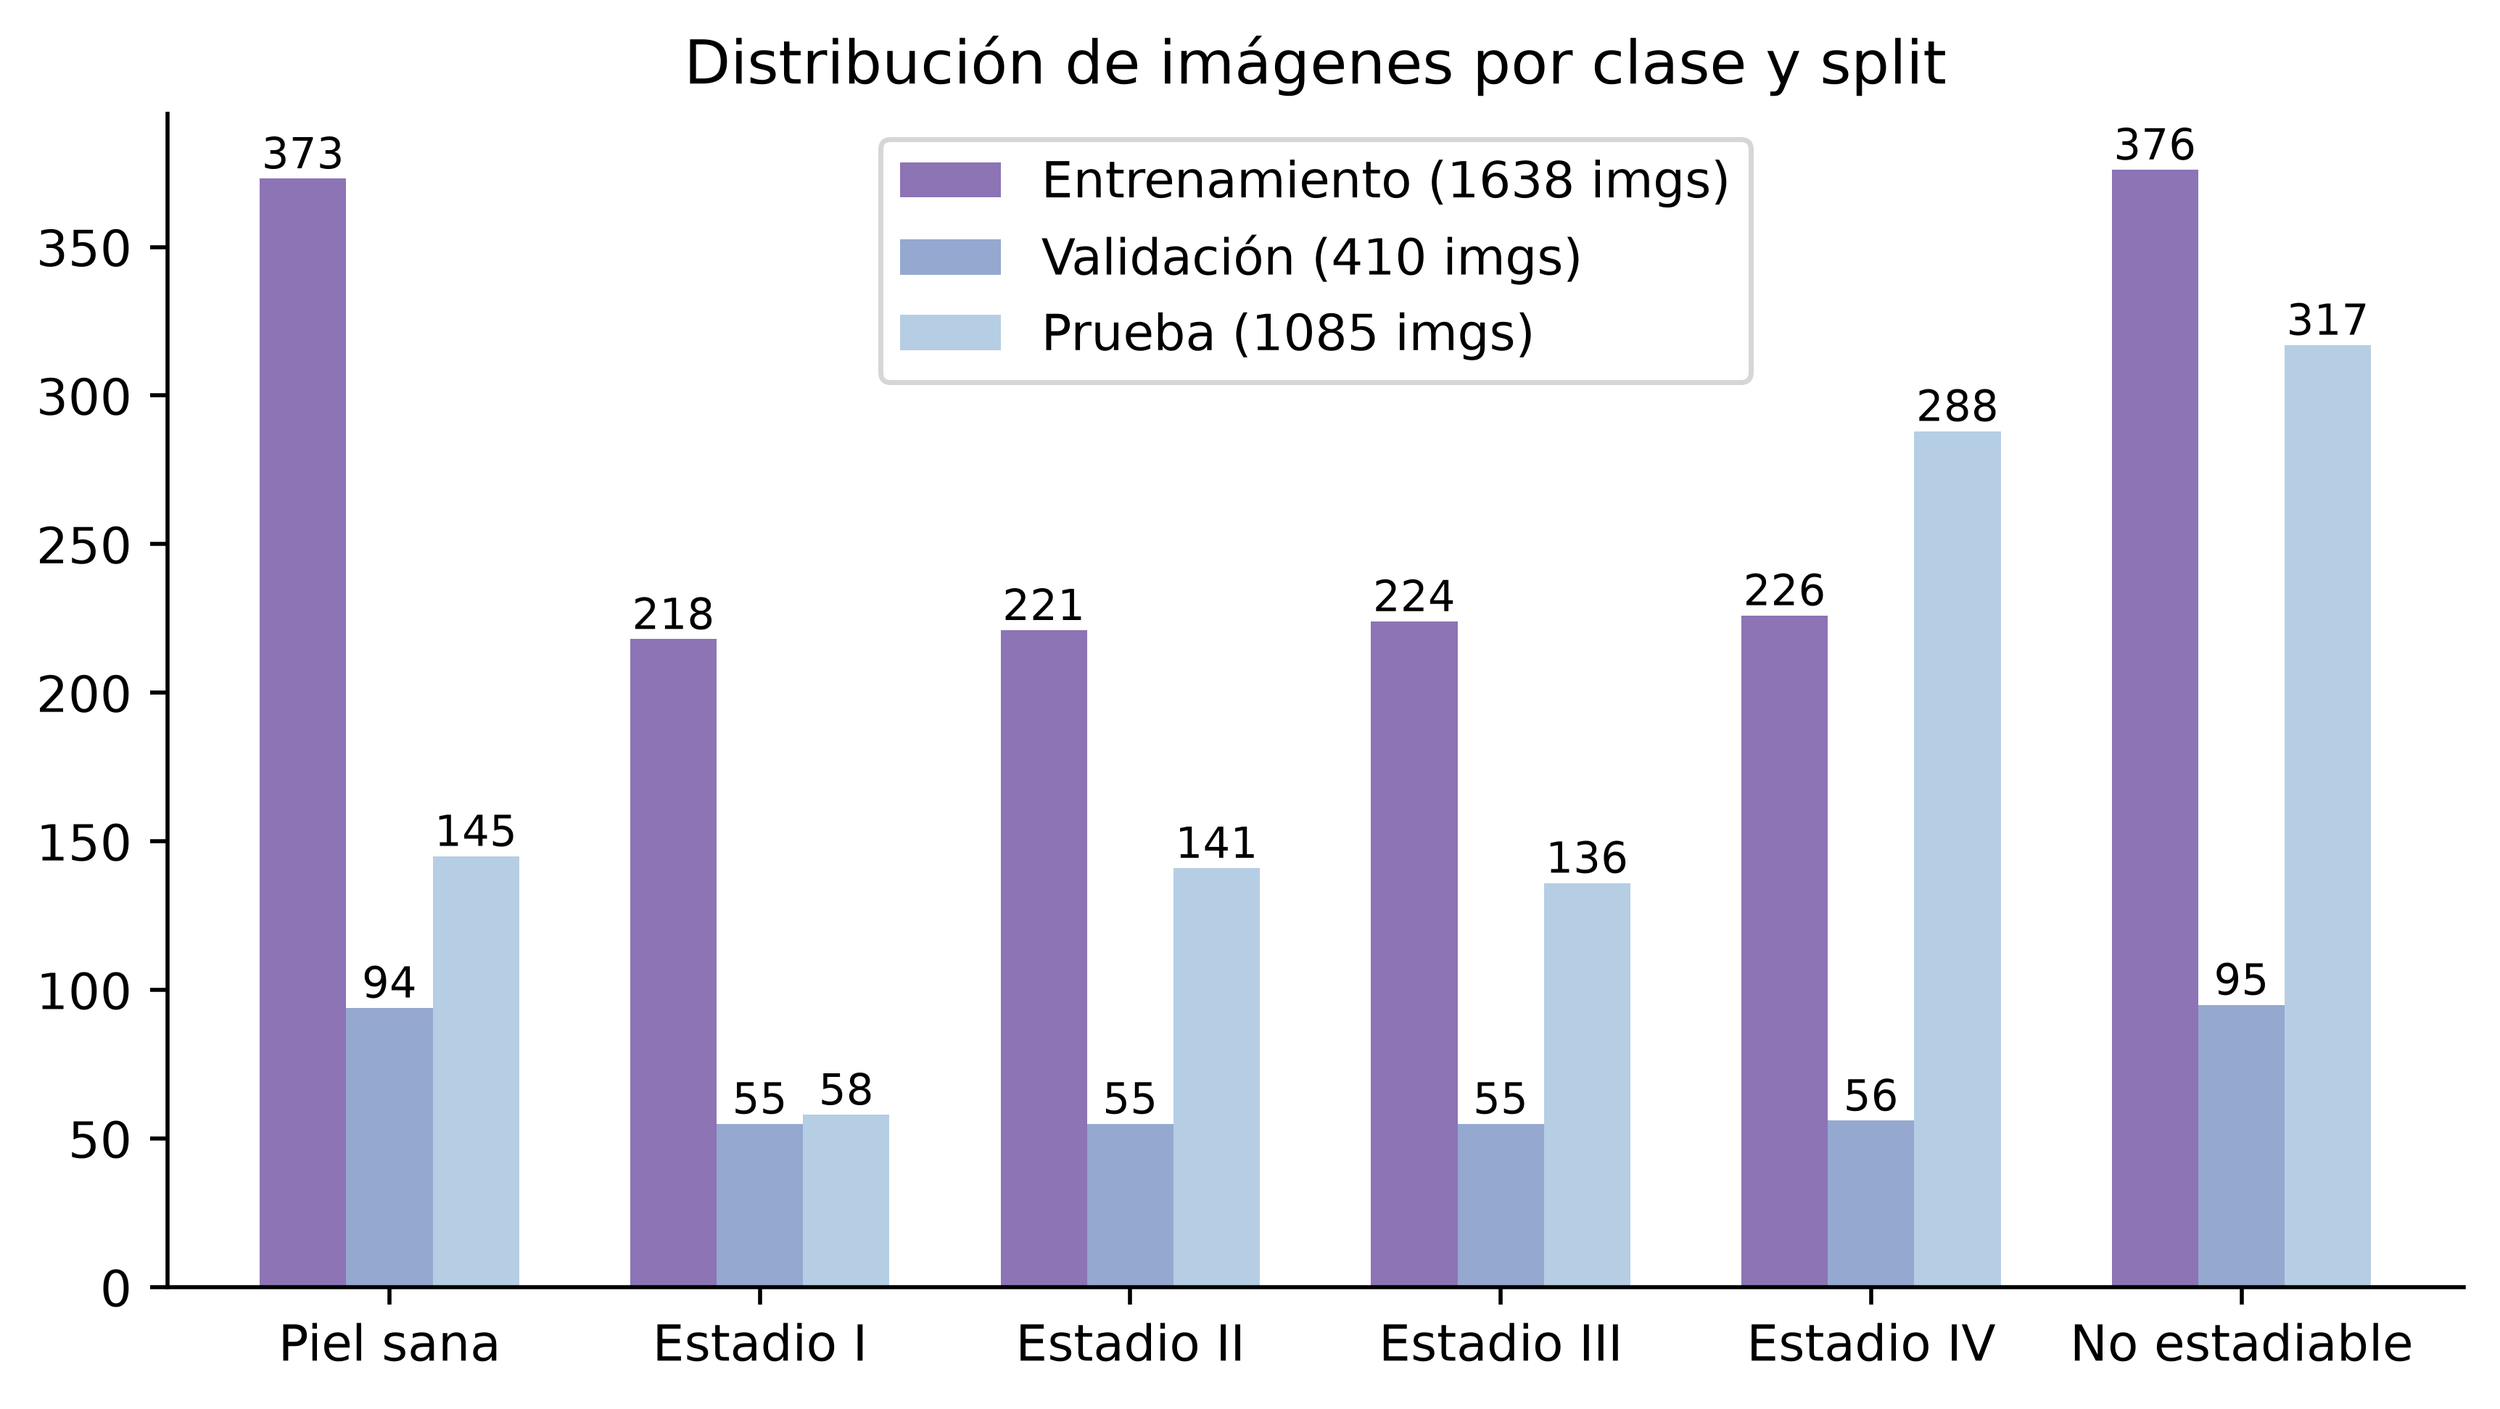
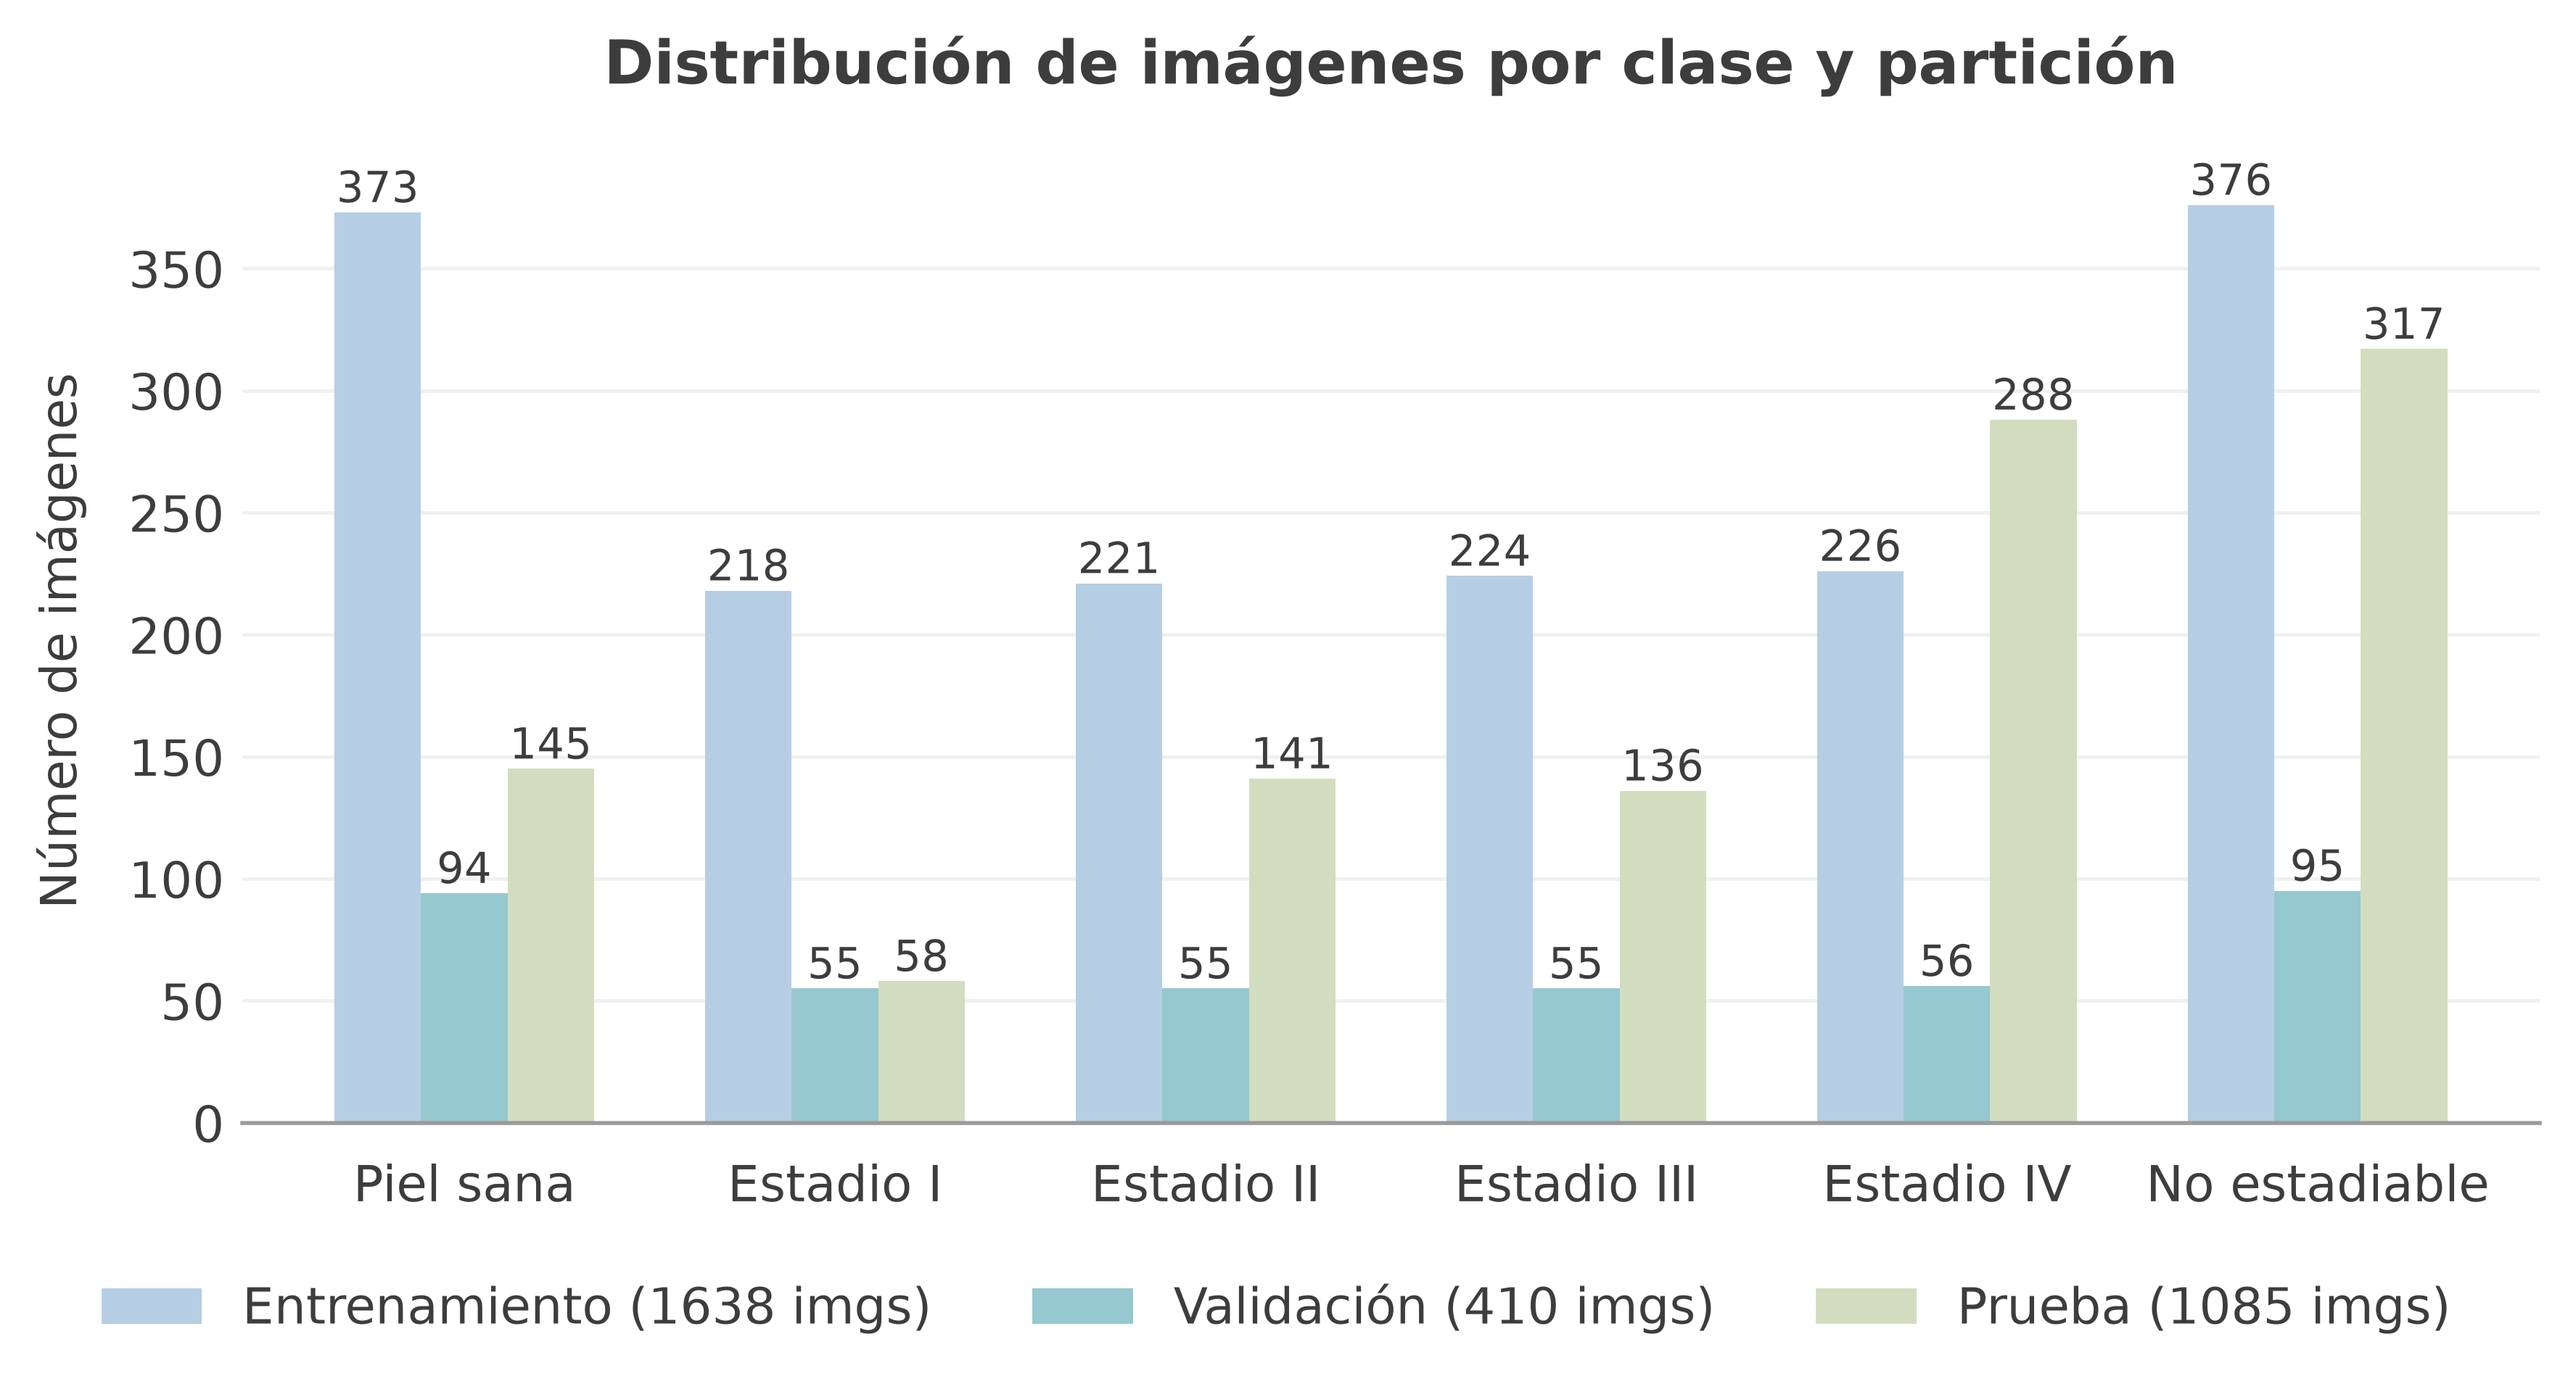
Se modificó el estilo de la gráfica de la distribución de imágenes por clase y split

diff --git a/src/upp_classification/visualization.py b/src/upp_classification/visualization.py
@@ -183,7 +183,7 @@ def plot_dataset_distribution(upp_csv_file=UPP_CSV_FILE, piid_csv_file=PIID_CSV_
     df_upp = pd.read_csv(upp_csv_file)
     df_piid = pd.read_csv(piid_csv_file)
 
-    # Alinear columnas faltantes en PIID para poder concatenar ambos datasets
+    # Agregar columnas faltantes en PIID para poder concatenar ambos datasets
     df_piid["patient_id"] = None
     df_piid["lesion_id"] = None
     df_all = pd.concat([df_upp, df_piid], ignore_index=True)
@@ -213,20 +213,39 @@ def plot_dataset_distribution(upp_csv_file=UPP_CSV_FILE, piid_csv_file=PIID_CSV_
     counts.columns = [f"{col} ({split_totals[col]} imgs)" for col in counts.columns]
 
     # Graficar
-    ax = counts.plot(kind="bar", figsize=(7, 4), width=0.7, color=["#8c74b5", "#95a8cf", "#b6cee4"])
-    
-    ax.set_xlabel("")
-    ax.set_title("Distribución de imágenes por clase y split")
+    ax = counts.plot(kind="bar", figsize=(7.5, 4), width=0.7, color=["#b6cee4", "#95c8cf", "#d2ddbf"]) 
+    fig = ax.get_figure()
 
+    # Título y etiquetas de los ejes
+    ax.set_xlabel("")
+    ax.set_ylabel("Número de imágenes", labelpad=8, color="#3d3d3d")
+    ax.set_title("Distribución de imágenes por clase y partición", fontweight="bold", pad=15, color="#3d3d3d") 
+
+    # Configurar los bordes de la gráfica
     ax.spines["top"].set_visible(False)
+    ax.spines["left"].set_visible(False)
     ax.spines["right"].set_visible(False)
+    ax.spines["bottom"].set_color("#9B9B9B")
+
+    # Configurar el estilo de los ejes
+    ax.tick_params(axis="x", length=0, pad=8, labelrotation=0, colors="#3d3d3d")
+    ax.tick_params(axis="y", length=0, colors="#3d3d3d")
+
+    # Grid horizontal
+    ax.set_axisbelow(True)
+    ax.yaxis.grid(True, linestyle="-", linewidth=0.7, alpha=0.18)
+    ax.xaxis.grid(False)
 
     # Colocar la cantidad exacta arriba de cada barra
     for container in ax.containers:
-        ax.bar_label(container, fmt="%d", fontsize=8.5)
+        ax.bar_label(container, fmt="%d", fontsize=8.5, color="#3d3d3d")
 
-    # Ajustar el espaciado y la rotación de los nombres en el eje x
-    plt.xticks(rotation=0)
-    plt.tight_layout()
+    # Configurar el estilo de la leyenda
+    legend = ax.legend(loc="upper center", bbox_to_anchor=(0.45, -0.12), ncol=3, frameon=False)
+    for text in legend.get_texts():
+        text.set_color("#3d3d3d")
 
-    return ax.get_figure()
+    # Ajustar el espaciado
+    fig.tight_layout()
+
+    return fig
